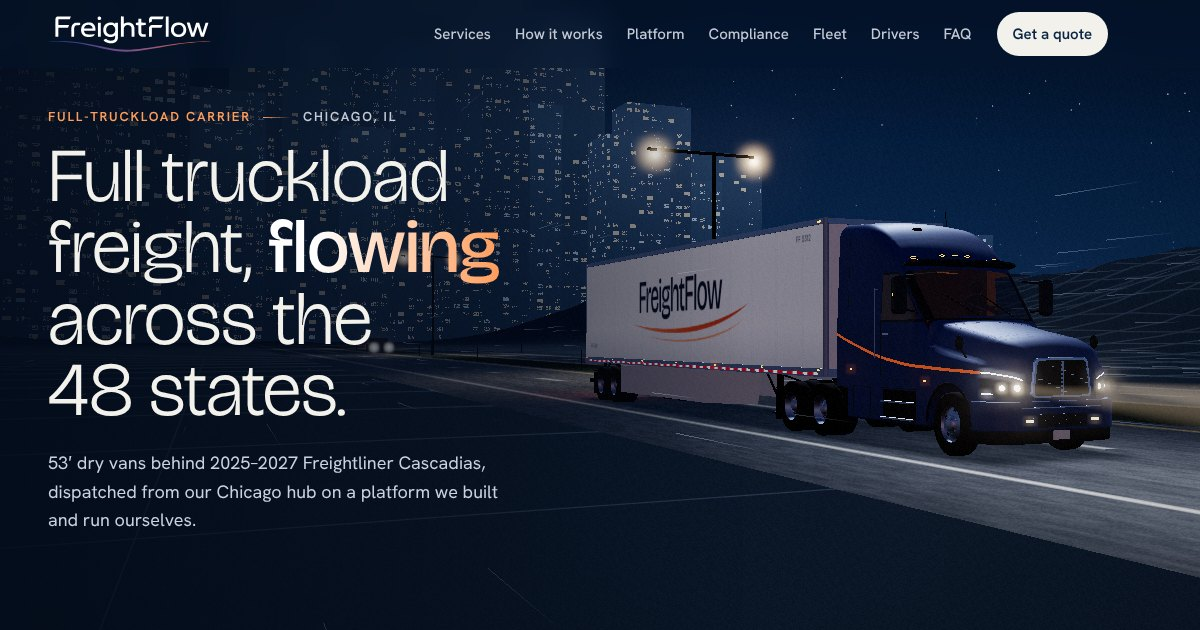
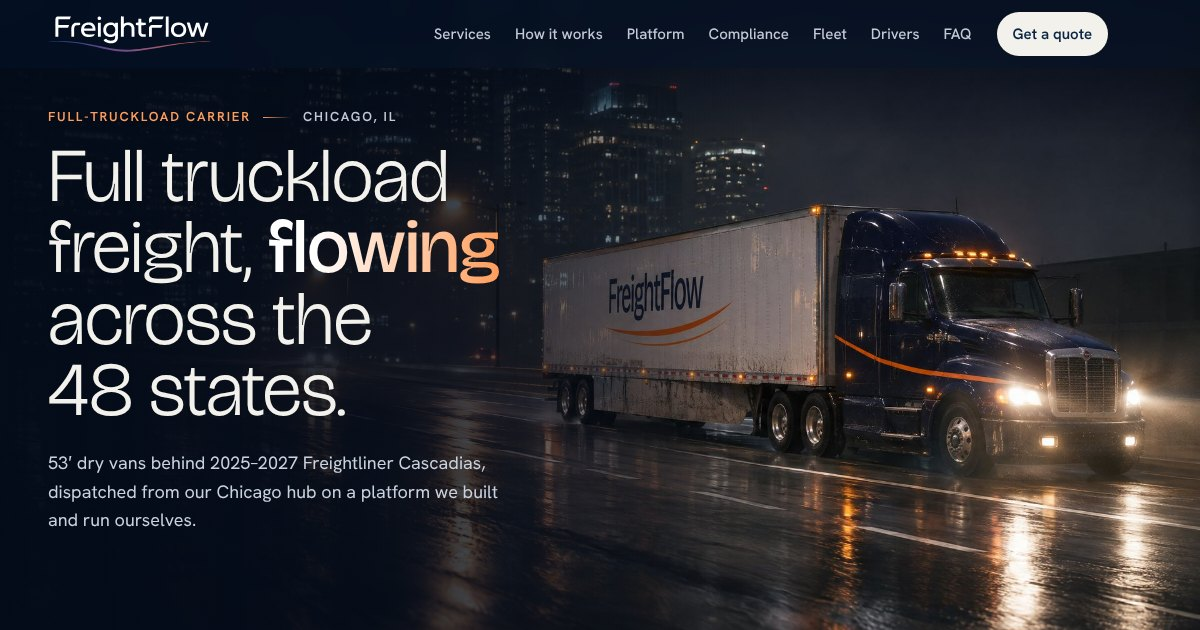
Photographic plates for the on-the-road chapters
- PhotoLayer cross-fades a photoreal plate over the 3D scene in the hero,
  compliance, drivers, FAQ and closing chapters; the map, gates and blueprint
  chapters stay live 3D
- the engine stops drawing while a plate fully covers it and resumes at the
  current scroll position
- portrait screens show the plate in the top of the frame so the rig stays large
- hero high-beams control removed (it drove the hidden 3D truck); new share image

Claude-Session: https://claude.ai/code/session_012xCkUWe8zowQCEDsnk7zbV

diff --git a/src/components/drive/PhotoLayer.tsx b/src/components/drive/PhotoLayer.tsx
@@ -1,0 +1,114 @@
+import { useEffect, useRef, useState } from 'react';
+import { useDrive, useDriveStill } from './DriveContext';
+
+/**
+ * Photographic plates that take over from the 3D scene in the chapters that are simply
+ * "the truck on the road". Each plate belongs to a `data-shot` section and fades in as that
+ * section reaches the middle of the screen; the map, gates and blueprint chapters stay 3D.
+ * A plate is a still, plus a looping clip when one exists for it.
+ */
+interface Plate {
+  shot: string;
+  name: string;
+  /** object-position, so the rig stays in frame when a tall screen crops the 16:9 plate */
+  pos: string;
+  /** the same, for portrait screens, where the plate fills only part of the height */
+  posTall: string;
+  /** where the copy sits, for the scrim */
+  copy: 'left' | 'wide' | 'top';
+  video?: boolean;
+}
+
+export const PLATES: Plate[] = [
+  { shot: 'hero', name: 'hero', pos: '72% 50%', posTall: '86% 50%', copy: 'left' },
+  { shot: 'compliance', name: 'compliance', pos: '80% 50%', posTall: '86% 50%', copy: 'left' },
+  { shot: 'drivers', name: 'drivers', pos: '82% 50%', posTall: '100% 50%', copy: 'left' },
+  { shot: 'faq', name: 'aerial', pos: '70% 60%', posTall: '74% 60%', copy: 'wide' },
+  { shot: 'cta', name: 'sunrise', pos: '50% 70%', posTall: '50% 70%', copy: 'top' },
+];
+
+const clamp01 = (v: number) => Math.min(1, Math.max(0, v));
+const ease = (t: number) => t * t * (3 - 2 * t);
+
+export default function PhotoLayer() {
+  const drive = useDrive();
+  const still = useDriveStill();
+  const layers = useRef<(HTMLDivElement | null)[]>([]);
+  const videos = useRef<(HTMLVideoElement | null)[]>([]);
+  // a plate's files are requested once its chapter is within reach, the hero's at once
+  const [armed, setArmed] = useState<boolean[]>(() => PLATES.map((_, i) => i === 0));
+
+  useEffect(() => {
+    let raf = 0;
+    const read = () => {
+      raf = 0;
+      const H = window.innerHeight, mid = H * 0.5, m = H * 0.38;
+      const all = Array.from(document.querySelectorAll<HTMLElement>('[data-shot]'));
+      const rects = PLATES.map((p) => {
+        const el = all.find((e) => e.dataset.shot === p.shot);
+        if (!el) return null;
+        const r = el.getBoundingClientRect();
+        const i = all.indexOf(el);
+        const isPlate = (e?: HTMLElement) => !!e && PLATES.some((q) => q.shot === e.dataset.shot);
+        return { top: r.top, bottom: r.bottom, first: i === 0, last: i === all.length - 1, nextIsPlate: isPlate(all[i + 1]) };
+      });
+      // how far each plate has faded in / out around its section's edges
+      const enter = rects.map((r) => (!r ? 0 : r.first ? 1 : ease(clamp01((mid - (r.top - m)) / (2 * m)))));
+      let covered = false;
+      const near: number[] = [];
+      rects.forEach((r, i) => {
+        const el = layers.current[i];
+        if (!r || !el) return;
+        let exit = r.last ? 1 : 1 - ease(clamp01((mid - (r.bottom - m)) / (2 * m)));
+        // the next plate fades in on top of this one, so this one holds until it is hidden
+        if (r.nextIsPlate) exit = enter[i + 1] >= 1 ? 0 : 1;
+        const o = enter[i] * exit;
+        el.style.opacity = o.toFixed(3);
+        el.style.visibility = o < 0.004 ? 'hidden' : 'visible';
+        if (o > 0.996) covered = true;
+        if (r.top < H * 2.5 && r.bottom > -H * 1.5) near.push(i);
+        const v = videos.current[i];
+        if (v) {
+          if (o > 0.02 && !still) { if (v.paused) void v.play().catch(() => {}); }
+          else if (!v.paused) v.pause();
+        }
+      });
+      drive.setCovered(covered);
+      if (near.length) setArmed((a) => (near.every((i) => a[i]) ? a : a.map((v, i) => v || near.includes(i))));
+    };
+    const on = () => { if (!raf) raf = requestAnimationFrame(read); };
+    window.addEventListener('scroll', on, { passive: true });
+    window.addEventListener('resize', on);
+    const ro = new ResizeObserver(on);
+    ro.observe(document.body);
+    read();
+    return () => {
+      window.removeEventListener('scroll', on);
+      window.removeEventListener('resize', on);
+      ro.disconnect();
+      cancelAnimationFrame(raf);
+      drive.setCovered(false);
+    };
+  }, [drive, still]);
+
+  return (
+    <div className="photos" aria-hidden="true">
+      {PLATES.map((p, i) => {
+        const base = `/drive/photo/${p.name}`;
+        return (
+          <div key={p.name} className={`photo photo-${p.copy}`} ref={(el) => { layers.current[i] = el; }} style={{ ['--pos' as string]: p.pos, ['--pos-tall' as string]: p.posTall }}>
+            {armed[i] && (
+              <img
+                src={`${base}-1920.jpg`} srcSet={`${base}-960.jpg 960w, ${base}-1920.jpg 1920w`} sizes="100vw"
+                alt="" decoding="async" fetchPriority={i === 0 ? 'high' : 'low'}
+              />
+            )}
+            {armed[i] && p.video && !still && (
+              <video ref={(el) => { videos.current[i] = el; }} src={`/drive/video/${p.name}.mp4`} poster={`${base}-1920.jpg`} muted loop playsInline preload="metadata" />
+            )}
+          </div>
+        );
+      })}
+    </div>
+  );
+}

diff --git a/src/index.css b/src/index.css
@@ -293,6 +293,23 @@ p { margin: 0; }
 .drive-canvas.is-live { opacity: 1; }
 .drive-canvas[hidden] { display: none; }
 
+/* photographic plates that take over from the scene in the on-the-road chapters */
+.photos { position: fixed; inset: 0 auto auto 0; width: 100%; height: 100vh; height: 100lvh; z-index: 0; pointer-events: none; }
+.photo { position: absolute; inset: 0; opacity: 0; visibility: hidden; will-change: opacity; background: #050b16; }
+.photo img, .photo video { position: absolute; inset: 0; width: 100%; height: 100%; object-fit: cover; object-position: var(--pos, 50% 50%); }
+.photo::after { content: ""; position: absolute; inset: 0; }
+.photo-left::after { background: linear-gradient(90deg, rgba(4, 10, 22, 0.86) 0%, rgba(4, 10, 22, 0.55) 38%, rgba(4, 10, 22, 0) 68%), linear-gradient(rgba(4, 10, 22, 0.55), rgba(4, 10, 22, 0) 22%); }
+.photo-wide::after { background: rgba(4, 10, 22, 0.5); }
+.photo-top::after { background: linear-gradient(rgba(4, 10, 22, 0.7) 0%, rgba(4, 10, 22, 0.25) 46%, rgba(4, 10, 22, 0) 70%); }
+/* Portrait: the plate fills the top of the screen (the bottom for the closing chapter) and
+   melts into the page colour, so the rig stays large instead of being cropped to a sliver. */
+@media (max-aspect-ratio: 4/5) {
+  .photo img, .photo video { height: 62%; object-position: var(--pos-tall, 50% 50%); }
+  .photo-left::after, .photo-wide::after { background: linear-gradient(rgba(5, 11, 22, 0.5) 0%, rgba(5, 11, 22, 0.1) 22%, rgba(5, 11, 22, 0.35) 40%, #050b16 62%); }
+  .photo-top img, .photo-top video { top: auto; bottom: 0; }
+  .photo-top::after { background: linear-gradient(#050b16 38%, rgba(5, 11, 22, 0.45) 58%, rgba(5, 11, 22, 0.05) 80%); }
+}
+
 /* labels the engine pins to points in the scene */
 .pins { position: fixed; inset: 0; z-index: 1; pointer-events: none; overflow: hidden; }
 .pin { position: absolute; left: 0; top: 0; opacity: 0; visibility: hidden; will-change: transform; }

diff --git a/src/components/chapters/Hero.tsx b/src/components/chapters/Hero.tsx
@@ -1,6 +1,5 @@
 import { useQuoteModal } from '../../QuoteContext';
 import { COMPANY, HERO } from '../../content';
-import { useDrive, useDriveMode } from '../drive/DriveContext';
 
 const WORDS: { t: string; b?: boolean }[] = [
   { t: 'Full' }, { t: 'truckload' }, { t: 'freight,' }, { t: 'flowing', b: true }, { t: 'across' }, { t: 'the' }, { t: '48 states.' },
@@ -8,8 +7,6 @@ const WORDS: { t: string; b?: boolean }[] = [
 
 export default function Hero() {
   const { openQuote } = useQuoteModal();
-  const drive = useDrive();
-  const mode = useDriveMode();
   return (
     <section id="top" data-shot="hero" className="ch ch-left ch-hero" aria-labelledby="hero-title">
       <div className="ch-in">
@@ -32,12 +29,6 @@ export default function Hero() {
           </dl>
         </div>
       </div>
-      {mode !== 'static' && mode !== 'pending' && (
-        <button type="button" className="beams" onClick={() => drive.flash()}>
-          <svg viewBox="0 0 24 24" aria-hidden="true"><path d="M9 5a7 7 0 0 0 0 14c1.5 0 2-3 2-7s-.5-7-2-7ZM14 7l7-2M14.5 12H22M14 17l7 2" /></svg>
-          Flash the high beams
-        </button>
-      )}
       <a className="cue" href="#services"><span aria-hidden="true" />Scroll to ride along</a>
     </section>
   );

diff --git a/src/components/drive/bridge.ts b/src/components/drive/bridge.ts
@@ -24,7 +24,14 @@ export class DriveBridge {
     this.engine?.setLane(from, to);
     this.laneListeners.forEach((cb) => cb());
   }
-  setPaused(paused: boolean) { this.paused = paused; this.engine?.setPaused(paused); }
+  setPaused(paused: boolean) { this.paused = paused; this.engine?.setPaused(paused || this.covered); }
+  /** A photo layer fully hides the scene: stop drawing it until it shows again. */
+  covered = false;
+  setCovered(covered: boolean) {
+    if (covered === this.covered) return;
+    this.covered = covered;
+    this.engine?.setPaused(this.paused || covered);
+  }
   setLabel(name: string, el: HTMLElement | null) {
     if (el) this.labels.set(name, el); else this.labels.delete(name);
     this.engine?.setLabel(name, el);
@@ -35,7 +42,7 @@ export class DriveBridge {
   attach(engine: DriveHandle) {
     this.engine = engine;
     engine.setLane(this.lane.from, this.lane.to);
-    if (this.paused) engine.setPaused(true);
+    if (this.paused || this.covered) engine.setPaused(true);
     this.labels.forEach((el, name) => engine.setLabel(name, el));
   }
   detach() { this.engine = null; }

diff --git a/src/App.tsx b/src/App.tsx
@@ -2,6 +2,7 @@ import { lazy, Suspense, useEffect, useState } from 'react';
 import { QuoteModalProvider, useQuoteModal } from './QuoteContext';
 import { DriveProvider, useDrive, useDriveMode, useDriveStill } from './components/drive/DriveContext';
 import DriveCanvas from './components/drive/DriveCanvas';
+import PhotoLayer from './components/drive/PhotoLayer';
 import Header from './components/Header';
 import Footer from './components/Footer';
 import Hero from './components/chapters/Hero';
@@ -44,6 +45,7 @@ function Page() {
     <>
       <a className="skip" href="#main">Skip to content</a>
       <DriveCanvas />
+      <PhotoLayer />
       <div className={`site${mode === 'static' ? ' is-static' : ''}${still ? ' is-still' : ''}`}>
         <Header />
         <main id="main">

diff --git a/src/drive/engine.ts b/src/drive/engine.ts
@@ -385,7 +385,12 @@ export function createDrive(opts: DriveOptions): DriveHandle {
 
   return {
     setLane(from, to) { map.setLane(from, to); kick(); },
-    setPaused(p) { paused = p; if (p) { cancelAnimationFrame(raf); raf = 0; } else kick(); },
+    setPaused(p) {
+      paused = p;
+      if (p) { cancelAnimationFrame(raf); raf = 0; intro = 1; }
+      // resume where the page is now, not where the scene was left
+      else { sY = window.scrollY; sVel = 0; kick(); }
+    },
     flash() { headBoost = 1.4; kick(); },
     orbit(delta) { orbitVel += delta * 9; orbitYaw += delta; kick(); },
     setLabel(name, el) { if (el) labels.set(name, el); else labels.delete(name); kick(); },

diff --git a/docs/HANDOFF.md b/docs/HANDOFF.md
@@ -42,24 +42,20 @@ Reject takes where the "FreightFlow" wordmark is garbled, the livery changes
 Check Higgsfield's terms before automating generation in the browser, and
 confirm the plan allows commercial use of the output.
 
-### Step 2 — build the clips into the site
+### Step 2 — build the plates into the site
 
-Not started. Suggested approach:
+Done for stills. `src/components/drive/PhotoLayer.tsx` cross-fades a photographic plate over
+the canvas for the `hero`, `compliance`, `drivers`, `faq` and `cta` shots and pauses the 3D
+engine while a plate fully covers it. The plates are in `public/drive/photo/`.
 
-- Keep live 3D for `services`, `how`, `lanes`, `platform`, `fleet` (x-ray truck,
-  scroll-driven gates, lane map — video cannot do these).
-- For the five shots above, cross-fade a full-bleed `<video>` over the canvas
-  while that chapter is active, driven by the same active-shot signal the
-  engine already uses. Pause the 3D render while a video fully covers it.
-- Videos: `muted loop playsInline preload="metadata"`, a poster image each,
-  H.264 MP4 (plus WebM if it is smaller), aim for under ~3 MB per clip, in
-  `public/video/`. Load a clip only when its chapter is near.
-- Respect the existing quality ladder: `static` mode and
-  `prefers-reduced-motion` show the poster only, never autoplay.
-- Keep the copy readable: the existing scrims were tuned for the dark 3D scene,
-  so re-check contrast over real footage, on mobile portrait too (clips are
-  16:9; crop with `object-fit: cover` and pick `object-position` per clip).
-- Re-shoot `public/og-image.jpg` from the hero clip when it lands.
+How the plates were made: the Seedance start frame locks the look, so animating the 3D
+captures directly only gave moving 3D renders. Each capture was first re-rendered as a
+photograph with `gpt_image_2_6` (capture as `image_references`, quality high, 2k), and
+those photographs are the plates and the start frames for video.
+
+Still to do: animate the plates. Set `video: true` on a plate in `PLATES` and put the clip
+at `public/drive/video/<name>.mp4` (muted, looping, H.264, aim for under ~3 MB). Seedance 2.5
+cost through the connector, 8 s 16:9: draft 24 credits, 720p 56, 1080p 128.
 
 ## Rules that still apply
 
